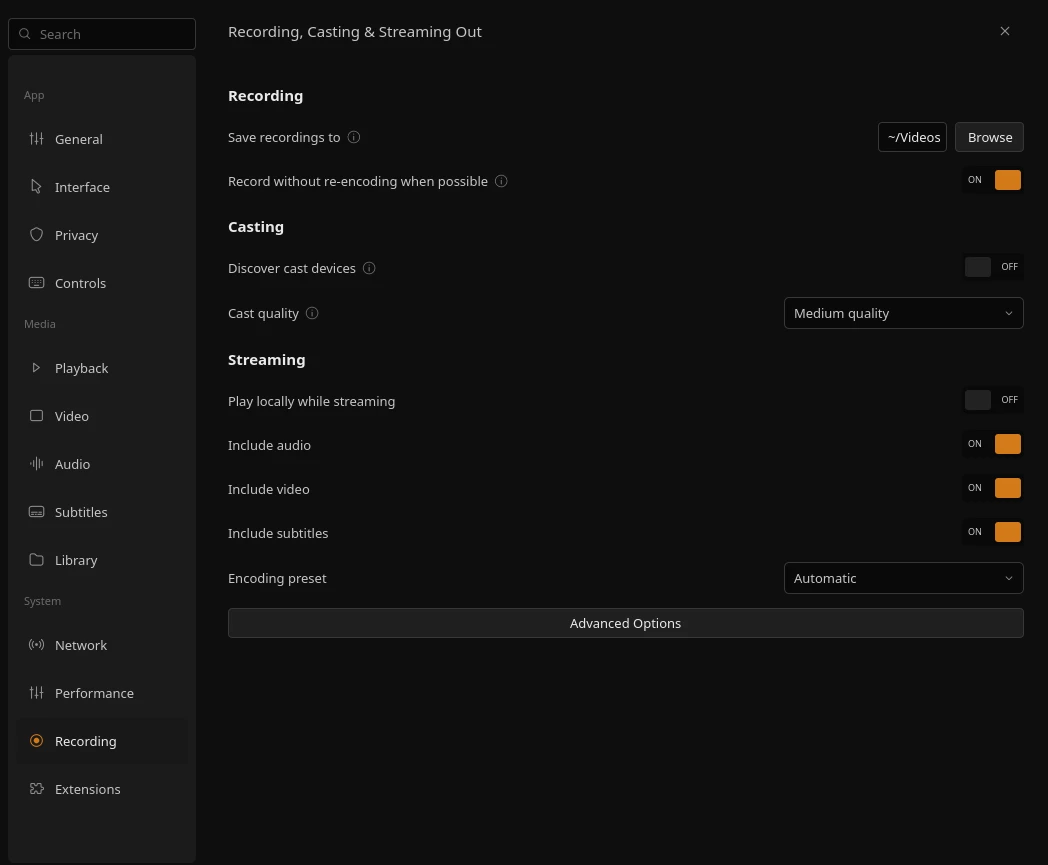
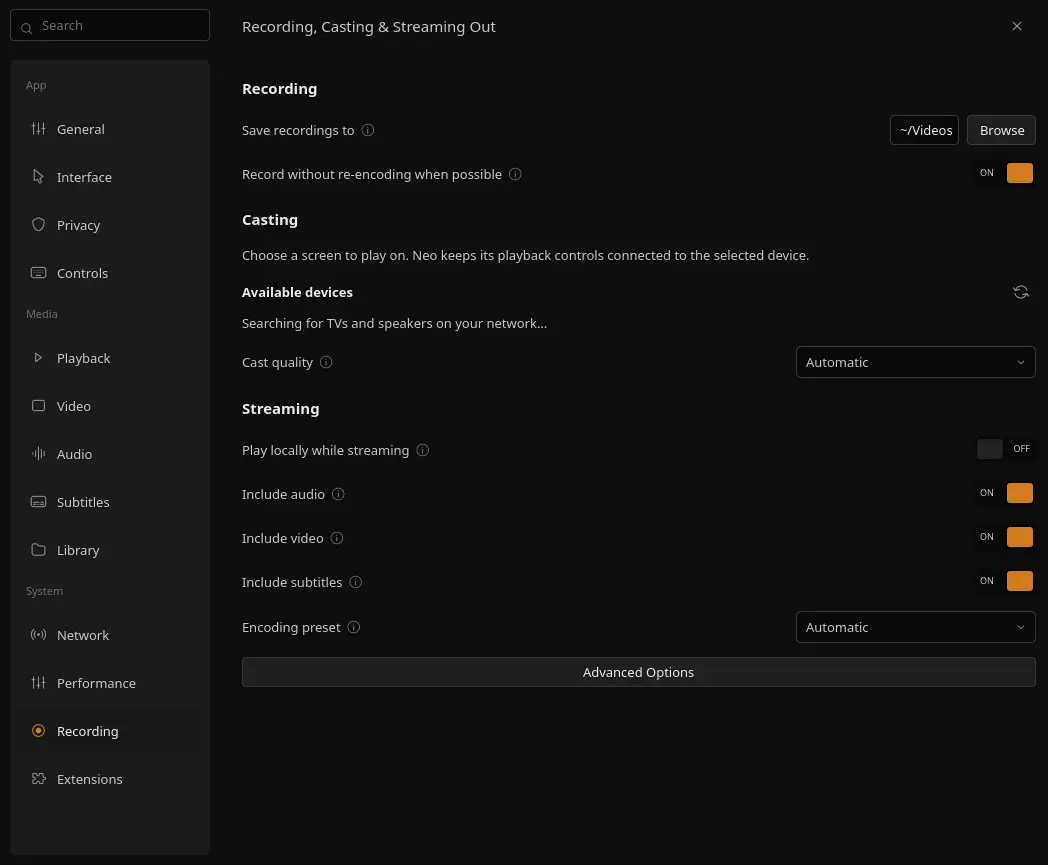
fix: align cast quality with Figma default

diff --git a/qml/SettingsDialog.qml b/qml/SettingsDialog.qml
@@ -2217,10 +2217,10 @@ Modal {
                     }
                     VlcOption {
                         option: "sout-chromecast-conversion-quality"; kind: "choice"; fieldWidth: 240
-                        label: "Chromecast stream quality"
-                        info: "Choose the quality and bandwidth trade-off used by VLC when streaming to a Chromecast."
-                        choices: [{ label: "High quality, high bandwidth", value: 0 },
-                                  { label: "Medium quality", value: 1 },
+                        label: "Cast quality"
+                        info: "Automatic uses VLC's built-in desktop default (Medium on supported x86 Linux builds); the other choices select specific Chromecast conversion modes."
+                        choices: [{ label: "Automatic", value: 1 },
+                                  { label: "High quality, high bandwidth", value: 0 },
                                   { label: "Low quality, low bandwidth", value: 2 },
                                   { label: "Low CPU, high bandwidth", value: 3 }]
                     }

diff --git a/docs/figma-parity.md b/docs/figma-parity.md
@@ -223,6 +223,8 @@ OpenSubtitles key and mini-player EOF follow-up (2026-10-25): the desktop API-ke
 Playback idle-inhibition follow-up (2026-10-29): VLC 3 source distinguishes `VLC_INHIBIT_AUDIO` (prevent suspend) from `VLC_INHIBIT_VIDEO` (prevent suspend and display blank/lock); its `disable-screensaver` setting separately documents video playback. Neo follows that policy: active audio requests suspend inhibition only; active video also inhibits display idle when `disable-screensaver` is enabled. In a real Cinnamon session, D-Bus reported VLC flags `4` during audio, flags `12` plus a ScreenSaver inhibit during video, and both VLC inhibitors cleared on pause. This caught and fixed a missing `tracksChanged` connection that had left video at audio-only inhibition. The rebuilt plugin is installed and the running Neo session loaded it. The D-Bus state confirms the idle request; waiting through the machine's full idle timeout remains unverified.
 
 Desktop compatibility follow-up (2026-10-29): VLC 3's D-Bus inhibitor also supports the MATE session manager. Neo now selects GNOME's session manager when present and falls back to MATE's equivalent API, retaining the same audio/suspend and video/display policy. A new private-bus CTest simulates MATE and verifies audio flags, video flags, cookie replacement and release; it passes locally. The plugin builds, and the updated plugin is installed and loaded by the relaunched Cinnamon session. No MATE session is available here, so live MATE D-Bus behavior still needs verification.
+
+Recording-settings Figma follow-up (2026-10-29): the 1048×865 capture beside node `6571:16429` showed the cast-quality label differed: Figma says “Automatic”, while Neo exposed VLC's desktop default as “Medium quality”. Neo now labels VLC's actual default value as “Automatic” and keeps the three other VLC conversion modes. This does not invent a separate automatic mode; it preserves VLC's supported values (0–3). The focused real-VLC QML probe confirms the Automatic row maps to value 1 and all four values remain available; `settings-recording.webp` now shows the matching label. The full smoke suite also asserts the displayed choice and value mapping.
 Home screen comparison (2026-10-29): Figma MCP rendered node `6261:15078` at 1600×900 from its 1920×1080 frame. A fresh 1920×1040 real-window capture aligns the 210 px expanded rail, content start, Home heading and first-shelf card bounds after accounting for the 40 px titlebar. The Figma reference shows 110 indexed items and its own episode artwork; this desktop shows zero indexed items and the user’s recent media, so the check confirms layout geometry only. The source export still contains no corresponding episode posters or video files.
 
 OpenSubtitles API-key visual follow-up (2026-10-29): a real 1048×865 capture showed the inline field starting 124 px left of neighboring controls. The field and actions now follow the existing settings form language, with Save key as the primary action below the aligned 320 px field and Remove key as a secondary action. At 720×560 the label, explanation, full-width password field and actions remain inside the scroll viewport. The focused desktop and compact QML geometry probes both pass; the installed VLC Neo session was relaunched with this layout. `screenshots/settings-subtitles.webp` now contains the post-fix 1048×865 capture; the previous image predated the API-key layout correction.
